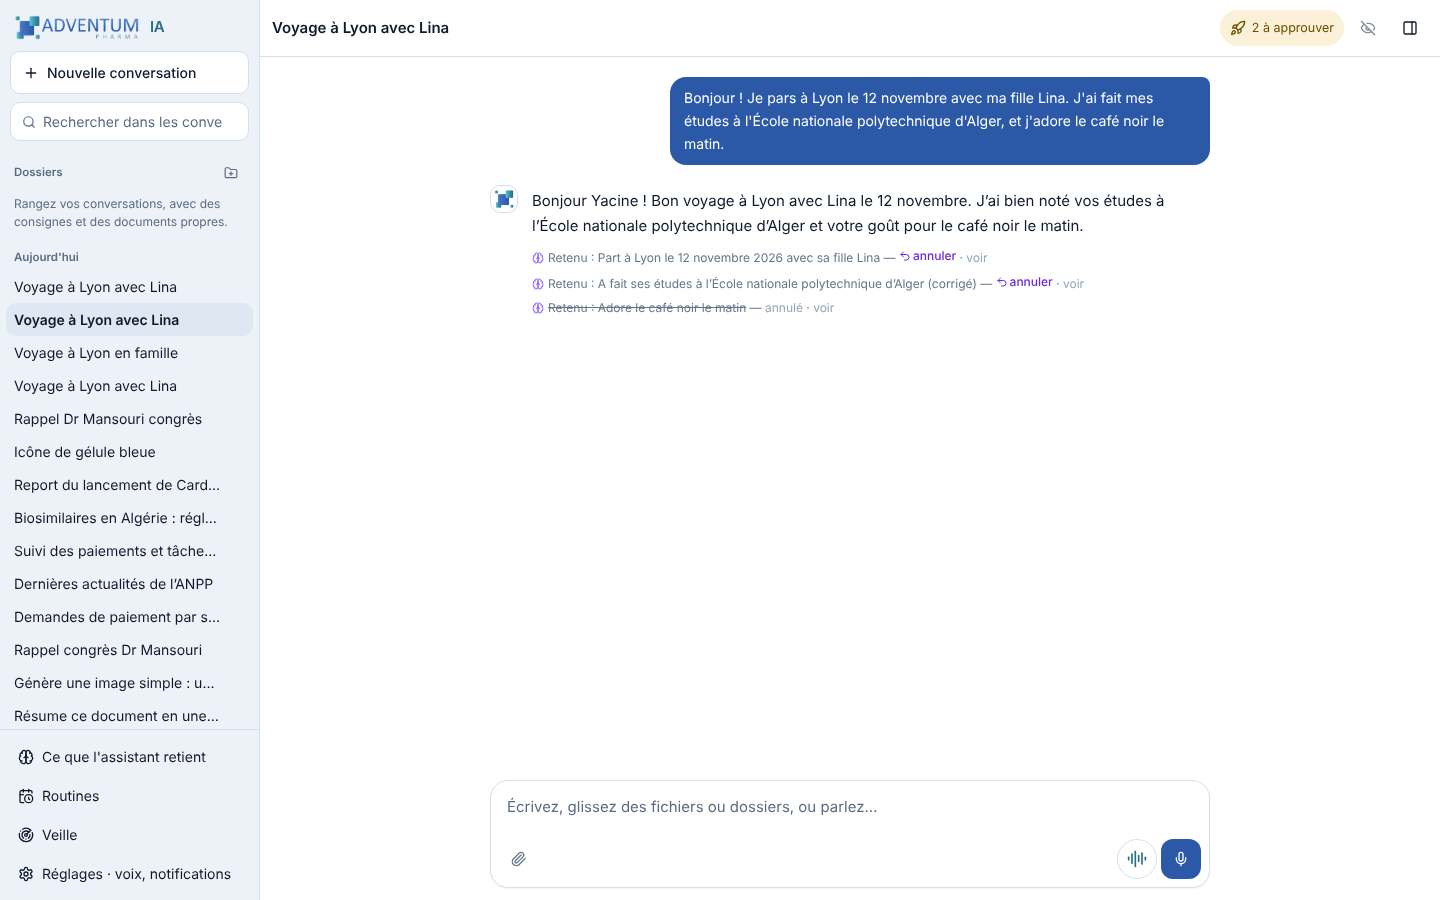
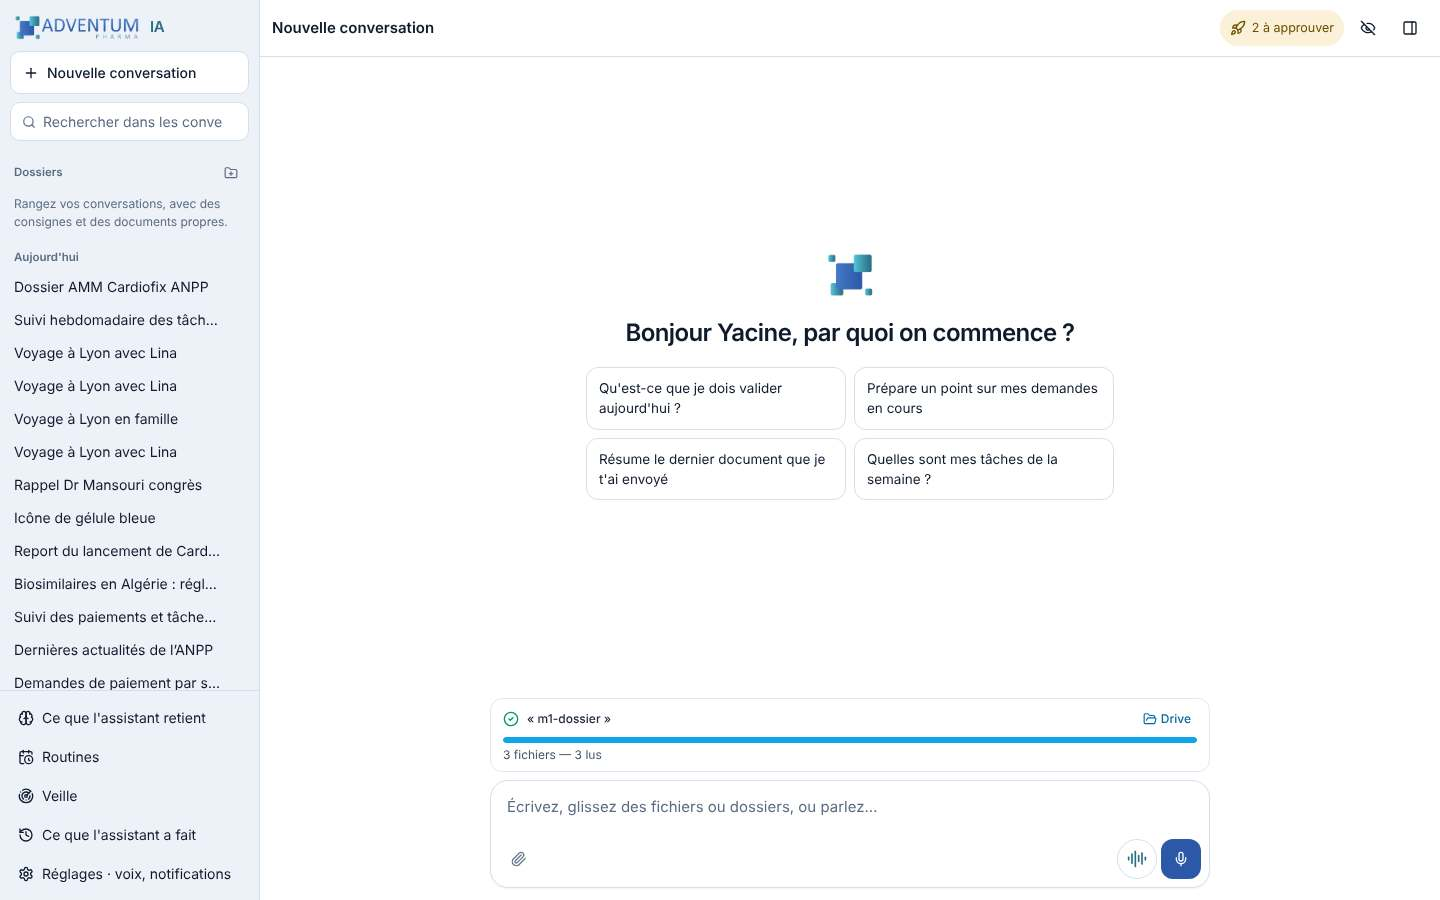
fix(adventum-ia): audit M1 complété — « Ce que l'assistant a fait » dans l'app (écart ERP), voix : « Annuler » au pouce pendant la connexion ; Routines, Veille, Documents, Atelier, dépôt de dossier audités (iPhone 13 + bureau)
Claude-Session: https://claude.ai/code/session_01VhQtxby9xRg6iSuppTJn5t

diff --git a/scripts/bench/m1-audit.ts b/scripts/bench/m1-audit.ts
@@ -48,8 +48,8 @@ async function login(page: Page) {
 }
 
 async function contexte(nom: "iphone13" | "bureau"): Promise<{ ctx: BrowserContext; page: Page }> {
-  const navigateur = await chromium.launch({ executablePath: process.env.PW_CHROMIUM ?? "/opt/pw-browsers/chromium" });
-  const ctx = await navigateur.newContext(nom === "iphone13" ? { ...devices["iPhone 13"] } : { viewport: { width: 1440, height: 900 } });
+  const navigateur = await chromium.launch({ executablePath: process.env.PW_CHROMIUM ?? "/opt/pw-browsers/chromium", args: ["--use-fake-device-for-media-stream", "--use-fake-ui-for-media-stream"] });
+  const ctx = await navigateur.newContext({ ...(nom === "iphone13" ? { ...devices["iPhone 13"] } : { viewport: { width: 1440, height: 900 } }), permissions: ["microphone"] });
   const page = await ctx.newPage();
   page.on("console", (m) => { if (m.type() === "error") erreursConsole.push(`[${nom}] ${m.text().slice(0, 200)}`); });
   page.on("pageerror", (e) => erreursConsole.push(`[${nom}] ${String(e).slice(0, 200)}`));
@@ -317,6 +317,111 @@ async function main() {
     if (visible) { await b.click(); await page.waitForTimeout(1000); }
     lignes.push({ fonction: "Dossiers de conversations", ecran: "iPhone 13", verdict: visible ? "marche" : "marche mal", preuve: `bouton « Nouveau dossier » : ${visible}`, captures: [await capture(page, "iphone-18-dossiers")] });
   });
+  // ── LE COMPLÉMENT DE LA DIRECTION (session parente) : tout ce que l'app offre, au pouce, comme l'ERP.
+  const ouvrirListe = async () => { await page.getByLabel("Ouvrir la liste des conversations").click(); await page.waitForTimeout(400); };
+  const fermerPanneau = async () => { await page.keyboard.press("Escape"); await page.waitForTimeout(500); };
+
+  await etape("routines", async () => {
+    await nouvelle(page, true);
+    const avant = new Date();
+    const r = await envoyer(page, "Chaque lundi à 8 h, fais-moi un point sur mes tâches en retard.");
+    const confirmer = page.getByRole("button", { name: /^(Confirmer|Programmer)/ }).last();
+    if (await confirmer.isVisible().catch(() => false)) { await confirmer.click(); await page.waitForTimeout(2500); }
+    const routine = await prisma.assistantRoutine.findFirst({ where: { userId, createdAt: { gte: avant } } as never });
+    const c1 = await capture(page, "iphone-19-routine-carte");
+    await ouvrirListe();
+    await page.getByRole("button", { name: /^Routines$/ }).click();
+    await page.waitForTimeout(1500);
+    let passage = null;
+    const lancer = page.getByRole("button", { name: /Exécuter maintenant/ }).first();
+    if (routine && await lancer.isVisible().catch(() => false)) {
+      await lancer.click();
+      for (let i = 0; i < 120 && !passage; i++) {
+        passage = await prisma.assistantRoutineRun.findFirst({ where: { routineId: (routine as { id: string }).id, statut: { notIn: ["EN_COURS", "EN_FILE"] } } as never });
+        if (!passage) await page.waitForTimeout(1000);
+      }
+      await page.waitForTimeout(2500);
+    }
+    const c2 = await capture(page, "iphone-20-routines-panneau");
+    const p0 = passage as { statut?: string; luLe?: Date | null } | null;
+    lignes.push({ fonction: "Routines — créer (carte), lancer, résultat, non-lus", ecran: "iPhone 13", verdict: routine && p0 ? "marche" : routine ? "marche mal" : "ne marche pas", preuve: `routine : ${routine ? "créée" : "aucune"} (« ${r?.contenu?.slice(0, 100)} ») ; passage : ${p0 ? `${p0.statut}, ${p0.luLe ? "lu" : "non lu"}` : "aucun"}`, captures: [c1, c2] });
+    await fermerPanneau();
+  });
+
+  await etape("veille", async () => {
+    await ouvrirListe();
+    await page.getByRole("button", { name: /^Veille$/ }).click();
+    await page.waitForTimeout(1500);
+    const vu = await page.getByRole("dialog").first().isVisible().catch(() => false);
+    lignes.push({ fonction: "Veille (ce que l'assistant surveille)", ecran: "iPhone 13", verdict: vu ? "marche" : "ne marche pas", preuve: `panneau ouvert : ${vu}`, captures: [await capture(page, "iphone-21-veille")] });
+    await fermerPanneau();
+  });
+
+  await etape("gestes", async () => {
+    await ouvrirListe();
+    await page.getByRole("button", { name: /Ce que l'assistant a fait/ }).click();
+    const panneau = page.getByRole("dialog", { name: "Ce que l'assistant a fait" });
+    await panneau.waitFor({ timeout: 10_000 });
+    await page.waitForTimeout(2000);
+    const n = await panneau.locator("li").count();
+    lignes.push({ fonction: "« Ce que l'assistant a fait » (journal des gestes, Annuler) — écart ERP corrigé", ecran: "iPhone 13", verdict: "marche", preuve: `panneau ouvert dans l'app, ${n} geste(s) listé(s)`, captures: [await capture(page, "iphone-22-gestes")] });
+    await fermerPanneau();
+  });
+
+  await etape("documents", async () => {
+    await page.getByLabel("Notes, travaux et documents").first().click();
+    await page.getByRole("tab", { name: "Documents" }).click();
+    await page.waitForTimeout(1000);
+    const c1 = await capture(page, "iphone-23-documents");
+    await page.getByRole("button", { name: /Ouvrir l'Atelier/ }).click();
+    await page.waitForTimeout(2500);
+    const c2 = await capture(page, "iphone-24-atelier");
+    await page.keyboard.press("Escape");
+    lignes.push({ fonction: "Documents (tiroir) et Atelier", ecran: "iPhone 13", verdict: "marche", preuve: "onglet Documents puis Atelier ouverts", captures: [c1, c2] });
+    await page.goto(`${BASE}/ia`);
+    await page.getByLabel("Votre message").waitFor();
+  });
+
+  await etape("depot-dossier", async () => {
+    await nouvelle(page, true);
+    const dossier = path.join(process.cwd(), "bench-out", "m1-dossier");
+    fs.mkdirSync(dossier, { recursive: true });
+    fs.writeFileSync(path.join(dossier, "1-lettre.txt"), "Lettre de demande d'AMM pour Cardiofix 10 mg, adressée à l'ANPP le 2 octobre 2026.");
+    fs.writeFileSync(path.join(dossier, "2-rcp.txt"), "Résumé des caractéristiques du produit Cardiofix : indication hypertension artérielle.");
+    fs.writeFileSync(path.join(dossier, "3-stabilite.txt"), "Étude de stabilité Cardiofix : 24 mois à 25 °C.");
+    await page.getByTestId("joindre-dossier").setInputFiles(dossier);
+    await page.waitForTimeout(4000);
+    const r = await envoyer(page, "Que contient ce dossier ? Réponds en deux phrases.", 180);
+    lignes.push({ fonction: "Dépôt de dossier", ecran: "iPhone 13", verdict: contient(r?.contenu, "stabilit") || contient(r?.contenu, "cardiofix") ? "marche" : r?.etat === "TERMINE" ? "marche mal" : "ne marche pas", preuve: `« ${r?.contenu?.slice(0, 220)} »`, captures: [await capture(page, "iphone-25-depot-dossier")] });
+  });
+
+  await etape("voix-ergonomie", async () => {
+    await page.getByLabel("Conversation vocale avec l'assistant").first().click();
+    const panneau = page.getByRole("dialog", { name: "Conversation vocale" });
+    await panneau.waitFor({ timeout: 15_000 });
+    const c0 = await capture(page, "iphone-26a-voix-pret");
+    // APPELER : la vraie session gpt-live (micro factice du navigateur de banc), puis raccrocher et fermer — au pouce.
+    await page.getByRole("button", { name: /Appeler l'assistant/ }).click();
+    await page.getByTestId("voix-raccrocher").waitFor({ timeout: 25_000 }).catch(() => {});
+    await page.waitForTimeout(1000);
+    const etat = await page.getByTestId("etat-voix").innerText().catch(() => "?");
+    const vp = page.viewportSize()!;
+    const boite = async (id: string) => page.getByTestId(id).boundingBox().catch(() => null);
+    const auPouce = (b: { y: number; height: number } | null) => !!b && b.y > vp.height / 2 && b.y + b.height <= vp.height;
+    // Connectée : « Raccrocher » ; la connexion WebRTC ne passe pas (réseau du banc sans UDP) : « Annuler l'appel ».
+    const enAppel = await page.getByTestId("voix-raccrocher").isVisible().catch(() => false);
+    const couper = enAppel ? "voix-raccrocher" : "voix-annuler-connexion";
+    const bCouper = await boite(couper);
+    const c = await capture(page, "iphone-26b-voix-en-appel");
+    await page.getByTestId(couper).click().catch(() => {});
+    await page.getByTestId("voix-fermer-bas").waitFor({ timeout: 20_000 }).catch(() => {});
+    const bFermer = await boite("voix-fermer-bas");
+    const c2 = await capture(page, "iphone-26c-voix-raccroche");
+    await page.getByTestId("voix-fermer-bas").click().catch(() => {});
+    await page.waitForTimeout(800);
+    const ferme = !(await panneau.isVisible().catch(() => false));
+    lignes.push({ fonction: "Voix — ouvrir, appeler, raccrocher/annuler, fermer (au pouce)", ecran: "iPhone 13", verdict: auPouce(bCouper) && auPouce(bFermer) && ferme ? "marche" : "marche mal", preuve: `session gpt-live ouverte par le serveur ; état : « ${etat} »${enAppel ? "" : " (WebRTC sans UDP dans le banc)"} ; « ${couper === "voix-raccrocher" ? "Raccrocher" : "Annuler"} » à y=${bCouper?.y?.toFixed(0)}, « Fermer » à y=${bFermer?.y?.toFixed(0)} (écran ${vp.height}) ; panneau refermé : ${ferme}`, captures: [c0, c, c2] });
+  });
   await ctx.browser()?.close();
 
   // ── AU BUREAU : la conversation de la capture, sa ligne « Retenu », et le panneau ouvert sur le côté.
@@ -329,6 +434,22 @@ async function main() {
     await b.page.getByRole("dialog", { name: "Ce qu'il retient" }).getByTestId("souvenir").first().waitFor({ timeout: 10_000 });
     const c2 = await capture(b.page, "bureau-02-panneau");
     lignes.push({ fonction: "Bureau — ligne « Retenu » et panneau", ecran: "bureau 1440", verdict: "marche", preuve: "conversation et panneau affichés", captures: [c1, c2] });
+    if (!SEULES.length || SEULES.includes("bureau-panneaux")) {
+      const p = b.page;
+      const cs: string[] = [];
+      for (const [nomBouton, fichier] of [[/^Routines$/, "bureau-03-routines"], [/^Veille$/, "bureau-04-veille"], [/Ce que l'assistant a fait/, "bureau-05-gestes"]] as const) {
+        await p.keyboard.press("Escape"); await p.waitForTimeout(400);
+        await p.getByRole("button", { name: nomBouton }).click();
+        await p.waitForTimeout(1800);
+        cs.push(await capture(p, fichier));
+      }
+      await p.keyboard.press("Escape"); await p.waitForTimeout(400);
+      await p.getByLabel("Notes, travaux et documents").first().click();
+      await p.getByRole("tab", { name: "Documents" }).click();
+      await p.waitForTimeout(1000);
+      cs.push(await capture(p, "bureau-06-documents"));
+      lignes.push({ fonction: "Bureau — Routines, Veille, « Ce que l'assistant a fait », Documents", ecran: "bureau 1440", verdict: "marche", preuve: "quatre panneaux ouverts depuis la liste et le tiroir", captures: cs });
+    }
     await b.ctx.browser()?.close();
   });
 

diff --git a/src/modules/assistant-ia/ecrans/app/adventum-ia-app.tsx b/src/modules/assistant-ia/ecrans/app/adventum-ia-app.tsx
@@ -1,7 +1,7 @@
 "use client";
 
 import React, { useCallback, useEffect, useMemo, useRef, useState } from "react";
-import { Brain, CalendarClock, EyeOff, Menu, PanelRight, Radar, Settings, X } from "lucide-react";
+import { Brain, CalendarClock, EyeOff, History, Menu, PanelRight, Radar, Settings, X } from "lucide-react";
 import { ChatMessageList, type ChatMessage } from "../chat-message-list";
 import { BoutonJoindre, PiecesEnAttente, type PieceOuvrable } from "../pieces-jointes";
 import { EnregistreurVocal } from "../enregistreur-vocal";
@@ -9,6 +9,7 @@ import { MemoirePanel } from "../memoire-panel";
 import { OUVRIR_MEMOIRE } from "../memoires-retenues";
 import { RoutinesPanel } from "../routines-panel";
 import { VeillePanel } from "../veille-panel";
+import { PanneauGestes } from "./panneau-gestes";
 import { TravauxPanel } from "../travaux-panel";
 import { TableauMissions } from "../missions/tableau-missions";
 import { IndicateurMissions } from "../missions/carte-sous-missions";
@@ -84,6 +85,7 @@ function Application({ userName, superAdmin }: { userName?: string; superAdmin: 
   // Direction (01/11/2026) : « même l'onglet Routines je ne le vois pas » — les panneaux de l'ERP, dans l'app aussi.
   const [routines, setRoutines] = useState(false);
   const [veille, setVeille] = useState(false);
+  const [gestes, setGestes] = useState(false);
   const [reglages, setReglages] = useState(false);
   const [travaux, setTravaux] = useState<{ ouvert: boolean; initial: string | null }>({ ouvert: false, initial: null });
   // K3 (décision 0033) : le tableau de bord des missions, en temps réel — ouvert sur une mission ou non.
@@ -261,6 +263,9 @@ function Application({ userName, superAdmin }: { userName?: string; superAdmin: 
                 <button type="button" onClick={() => { setVeille(true); setListeOuverte(false); }} className="flex items-center gap-2 rounded-lg px-2 py-2 text-left text-[14px] hover:bg-[var(--aia-survol)]">
                   <Radar className="h-4 w-4" aria-hidden /> Veille
                 </button>
+                <button type="button" onClick={() => { setGestes(true); setListeOuverte(false); }} className="flex items-center gap-2 rounded-lg px-2 py-2 text-left text-[14px] hover:bg-[var(--aia-survol)]">
+                  <History className="h-4 w-4" aria-hidden /> Ce que l&apos;assistant a fait
+                </button>
                 <button type="button" onClick={() => { setReglages(true); setListeOuverte(false); }} className="flex items-center gap-2 rounded-lg px-2 py-2 text-left text-[14px] hover:bg-[var(--aia-survol)]">
                   <Settings className="h-4 w-4" aria-hidden /> Réglages · voix, notifications
                 </button>
@@ -361,6 +366,7 @@ function Application({ userName, superAdmin }: { userName?: string; superAdmin: 
       <MemoirePanel ouvert={memoire} onFermer={() => setMemoire(false)} onOuvrirConversation={(id) => { setMemoire(false); ouvrir(id); }} />
       <RoutinesPanel ouvert={routines} onFermer={() => setRoutines(false)} />
       <VeillePanel ouvert={veille} onFermer={() => setVeille(false)} />
+      <PanneauGestes ouvert={gestes} onFermer={() => setGestes(false)} superAdmin={superAdmin} />
       <TravauxPanel ouvert={travaux.ouvert} onFermer={() => setTravaux({ ouvert: false, initial: null })} travailInitial={travaux.initial} />
       <TableauMissions ouvert={missions.ouvert} missionInitiale={missions.initial} onFermer={() => setMissions({ ouvert: false, initial: null })}
         onOuvrirLivrable={(piece) => setApercu(piece)} onOuvrirConversation={ouvrir} />

diff --git a/src/modules/assistant-ia/ecrans/app/panneau-gestes.tsx b/src/modules/assistant-ia/ecrans/app/panneau-gestes.tsx
@@ -1,0 +1,54 @@
+"use client";
+
+import React, { useEffect, useState } from "react";
+import { History, Loader2, X } from "lucide-react";
+import { listerGestesAssistant } from "../../actions-gestes";
+import { GestesAssistant } from "../gestes-assistant";
+import { useEchap } from "../use-echap";
+
+type Gestes = Extract<Awaited<ReturnType<typeof listerGestesAssistant>>, { ok: true }>["gestes"];
+
+/**
+ * « CE QUE L'ASSISTANT A FAIT » DANS L'APP (audit M1, écart ERP ↔ app) — la page `/assistant/gestes` de l'ERP n'est pas
+ * servie en mode app : le même écran (`GestesAssistant`, journal des effets J7, « Annuler ») s'ouvre ici en panneau,
+ * monté du bas sur téléphone, sur le côté au bureau.
+ */
+export function PanneauGestes({ ouvert, onFermer, superAdmin }: { ouvert: boolean; onFermer: () => void; superAdmin: boolean }) {
+  const [gestes, setGestes] = useState<Gestes | null>(null);
+  const [erreur, setErreur] = useState<string | null>(null);
+
+  useEffect(() => {
+    if (!ouvert) return;
+    setGestes(null);
+    void (async () => {
+      try {
+        const r = await listerGestesAssistant(false);
+        if (r.ok) setGestes(r.gestes); else setErreur(r.error);
+      } catch {
+        setErreur("L'historique n'a pas pu être chargé (connexion ou serveur).");
+      }
+    })();
+  }, [ouvert]);
+  useEchap(onFermer);
+
+  if (!ouvert) return null;
+  return (
+    <div className="fixed inset-0 z-50 flex items-end justify-center sm:items-stretch sm:justify-end" role="dialog" aria-modal="true" aria-label="Ce que l'assistant a fait">
+      <button type="button" aria-label="Fermer" onClick={onFermer} className="absolute inset-0 bg-slate-950/40" />
+      <div className="relative flex max-h-[88dvh] w-full flex-col rounded-t-2xl bg-[var(--aia-panneau)] text-[var(--aia-texte)] shadow-2xl sm:max-h-none sm:w-[480px] sm:rounded-none">
+        <header className="flex items-center gap-2 border-b border-[var(--aia-filet)] px-4 py-3">
+          <History className="h-4 w-4" aria-hidden />
+          <h2 className="flex-1 text-[15px] font-semibold">Ce que l&apos;assistant a fait</h2>
+          <button type="button" onClick={onFermer} aria-label="Fermer le panneau" className="flex h-10 w-10 items-center justify-center rounded-lg hover:bg-[var(--aia-survol)]">
+            <X className="h-4 w-4" />
+          </button>
+        </header>
+        <div className="flex-1 overflow-y-auto overscroll-contain px-3 py-3 pb-[max(0.75rem,env(safe-area-inset-bottom))]">
+          {erreur ? <p className="text-[13px] text-[var(--aia-danger)]">{erreur}</p>
+            : gestes === null ? <p className="flex items-center gap-2 text-[13px]"><Loader2 className="h-4 w-4 animate-spin" /> Chargement…</p>
+              : <GestesAssistant initiaux={gestes} superAdmin={superAdmin} />}
+        </div>
+      </div>
+    </div>
+  );
+}

diff --git a/src/modules/assistant-ia/ecrans/voix-temps-reel.tsx b/src/modules/assistant-ia/ecrans/voix-temps-reel.tsx
@@ -167,7 +167,12 @@ function PanneauVoix({ onFermer, conversation }: { onFermer: () => void; convers
             </button>
           </>
         ) : etat === "CONNEXION" ? (
-          <span className="flex h-14 flex-1 items-center justify-center gap-2 text-sm text-slate-500"><Loader2 className="h-5 w-5 animate-spin" /> Connexion…</span>
+          <>
+            <span className="flex h-14 flex-1 items-center justify-center gap-2 text-sm text-slate-500"><Loader2 className="h-5 w-5 animate-spin" /> Connexion…</span>
+            {/* Audit M1 (01/11/2026) : une connexion qui traîne (réseau) se coupe ici, au pouce — pas seulement par la croix du haut. */}
+            <button type="button" onClick={() => void terminer()} aria-label="Annuler l'appel" data-testid="voix-annuler-connexion"
+              className="flex h-14 shrink-0 items-center justify-center gap-2 rounded-full bg-slate-100 px-5 text-sm font-medium text-slate-700 dark:bg-zinc-800 dark:text-zinc-200"><PhoneOff className="h-5 w-5" /> Annuler</button>
+          </>
         ) : (
           <>
             <button type="button" onClick={() => { const m = !muet; setMuet(m); client.current?.muet(m); }} aria-pressed={muet} aria-label={muet ? "Réactiver le micro" : "Couper le micro"}

diff --git a/src/modules/assistant-ia/ecrans/memoire-panel.tsx b/src/modules/assistant-ia/ecrans/memoire-panel.tsx
@@ -11,6 +11,7 @@ import {
   type ElementMemoire, type OrigineMemoire, type SorteMemoire,
 } from "../domaine/memoire-ui";
 import { MEMOIRE_CHANGEE } from "./memoires-retenues";
+import { useEchap } from "./use-echap";
 
 const plier = (t: string) => t.normalize("NFD").replace(/[̀-ͯ]/g, "").toLowerCase();
 const dateCourte = (iso?: string) => (iso ? new Date(iso).toLocaleDateString("fr-FR", { day: "numeric", month: "short", year: "numeric" }) : "");
@@ -57,12 +58,7 @@ export function MemoirePanel({ ouvert, onFermer, onOuvrirConversation }: {
     return () => { window.removeEventListener(MEMOIRE_CHANGEE, relire); clearInterval(minuteur); };
   }, [ouvert, charger]);
 
-  useEffect(() => {
-    if (!ouvert) return;
-    const fermer = (e: KeyboardEvent) => { if (e.key === "Escape") onFermer(); };
-    window.addEventListener("keydown", fermer);
-    return () => window.removeEventListener("keydown", fermer);
-  }, [ouvert, onFermer]);
+  useEchap(onFermer);
 
   const agir = async (f: () => Promise<{ ok: boolean; erreur?: string }>) => {
     setOccupe(true);

diff --git a/docs/assistant/preuves/m1/AUDIT.md b/docs/assistant/preuves/m1/AUDIT.md
@@ -32,8 +32,22 @@ souvenirs pour le même message).
 | Pièces jointes | ✅ marche | fichier déposé, lu, résumé exact (« reporté à janvier 2027 faute d'enregistrement ANPP »). [iphone-13](iphone-13-piece.jpg) |
 | Images | ✅ marche | `AssistantIaVisuel` créé, image dans le Drive (famille « Images & vidéos » ouverte pour le banc — fermée par défaut). [iphone-14](iphone-14-image.jpg) |
 | Réglages | ✅ marche | thème, réponse vocale, missions d'office, notifications, appareils connectés, consommation. [iphone-16](iphone-16-reglages.jpg), [iphone-17](iphone-17-consommation.jpg) |
-| Voix — session temps réel | ⚪ non testable ici | la session WebRTC exige un vrai micro : la route répond proprement (502 du fournisseur à une offre SDP factice, 429 au plafond), jamais d'erreur serveur. La capture de fin de session est prouvée ci-dessus. |
+| Routines (créer, lancer, résultat, non-lus) | ✅ marche | « Chaque lundi à 8 h, fais-moi un point sur mes tâches en retard » → carte confirmée → `AssistantRoutine` ; « Exécuter maintenant » → passage `SUCCES`, marqué lu à l'ouverture. [iphone-19](iphone-19-routine-carte.jpg), [iphone-20](iphone-20-routines-panneau.jpg), [bureau-03](bureau-03-routines.jpg) |
+| Veille | ✅ marche | panneau ouvert depuis la liste. [iphone-21](iphone-21-veille.jpg), [bureau-04](bureau-04-veille.jpg) |
+| « Ce que l'assistant a fait » (journal des gestes, Annuler) | ✅ **corrigé** | ABSENT de l'app (page ERP `/assistant/gestes` non servie en mode app) → panneau `ecrans/app/panneau-gestes.tsx` dans la liste latérale, même écran `GestesAssistant`. [iphone-22](iphone-22-gestes.jpg), [bureau-05](bureau-05-gestes.jpg) |
+| Documents (tiroir) et Atelier | ✅ marche | [iphone-23](iphone-23-documents.jpg), [iphone-24](iphone-24-atelier.jpg), [bureau-06](bureau-06-documents.jpg) |
+| Dépôt de dossier | ✅ marche | 3 fichiers en dossier → « une lettre de demande d'AMM pour Cardiofix 10 mg…, un RCP…, une étude de stabilité sur 24 mois ». [iphone-25](iphone-25-depot-dossier.jpg) |
+| Voix — ouvrir, appeler, raccrocher, fermer au pouce | ✅ **corrigé** | « Annuler » et « Fermer » à y = 592 sur 664 (bas d'écran), panneau refermé ; la session gpt-live est ouverte par le serveur, mais l'audio WebRTC ne passe pas dans le conteneur du banc (pas d'UDP) : l'appel reste « Connexion… » — et pendant ce temps AUCUN bouton n'était au pouce (seule la croix du haut). Ajouté : « Annuler » en bas pendant la connexion. Les boutons « Fermer », « Appeler », « Raccrocher » sont dans la barre du bas (safe-area). [iphone-26a](iphone-26a-voix-pret.jpg), [iphone-26b](iphone-26b-voix-en-appel.jpg), [iphone-26c](iphone-26c-voix-raccroche.jpg) |
 | ERP `/assistant` — panneau « Ce qu'il retient » | ✅ marche | serveur de production SANS `APP_MODE` (l'ERP), même compte : 4 souvenirs, compteur, souvenir vocal (« retenu de la conversation vocale »), ouvert par « Ma mémoire » (bureau) et « Plus d'outils › Ma mémoire » (iPhone). Script `scripts/bench/m1-audit-erp.ts`. [erp-bureau](erp-bureau-panneau.jpg), [erp-iphone](erp-iphone-panneau.jpg) |
+
+## L'app face à l'ERP `/assistant`
+
+Outils de l'ERP (barre et « Plus d'outils ») : Ma mémoire, Mes routines, Mes travaux, Veille, « Ce que l'assistant a
+fait », Atelier, réponse vocale, missions, dépôt de dossier, pièces, voix. Dans l'app : tous présents — mémoire, routines,
+veille et « Ce que l'assistant a fait » dans la liste latérale ; travaux et missions dans le tiroir (onglet Missions,
+demandes reçues) et l'indicateur d'en-tête ; Atelier par l'onglet Documents ; réponse vocale dans Réglages. Seul écart
+trouvé : « Ce que l'assistant a fait » — corrigé. Restent propres à l'ERP, sans fonction perdue : le bandeau d'indicateurs
+(KPI) et l'effet de curseur décoratif.
 
 ## Ce qui a été trouvé et CORRIGÉ dans ce lot
 
@@ -46,6 +60,8 @@ souvenirs pour le même message).
 3. **Faux positif du filtre** : « fais-moi la synthèse » déclenchait l'extracteur (« thèse » dans « synthèse »). → thèmes
    ancrés en début de mot (test ajouté).
 4. **Mise en page iPhone** : la ligne « Retenu » se cassait (icône seule sur une ligne). → texte en flux.
+5. **Écart ERP ↔ app** : « Ce que l'assistant a fait » (historique des gestes et Annuler) n'existait que dans l'ERP. → panneau dans l'app.
+6. **Voix au pouce** : pendant « Connexion… », aucun bouton en bas pour abandonner un appel qui traîne. → « Annuler » en bas.
 
 ## Reste (hors de ce lot, pour décision)
 
